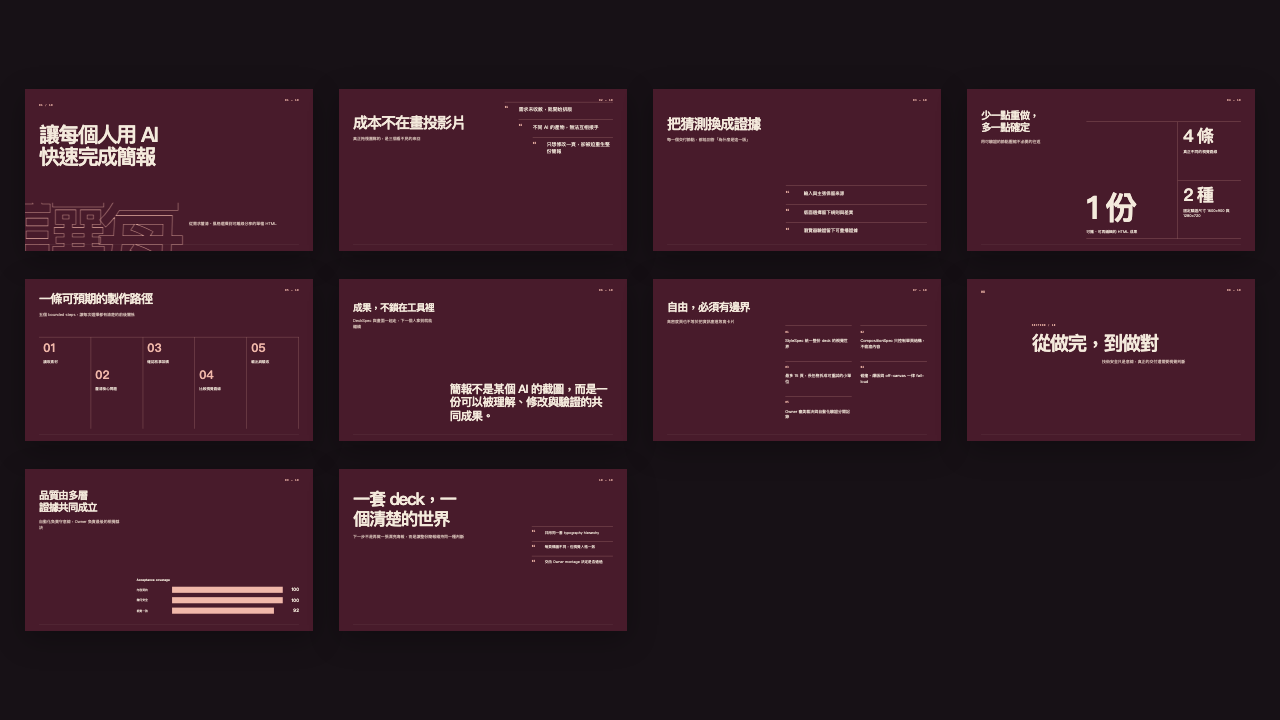
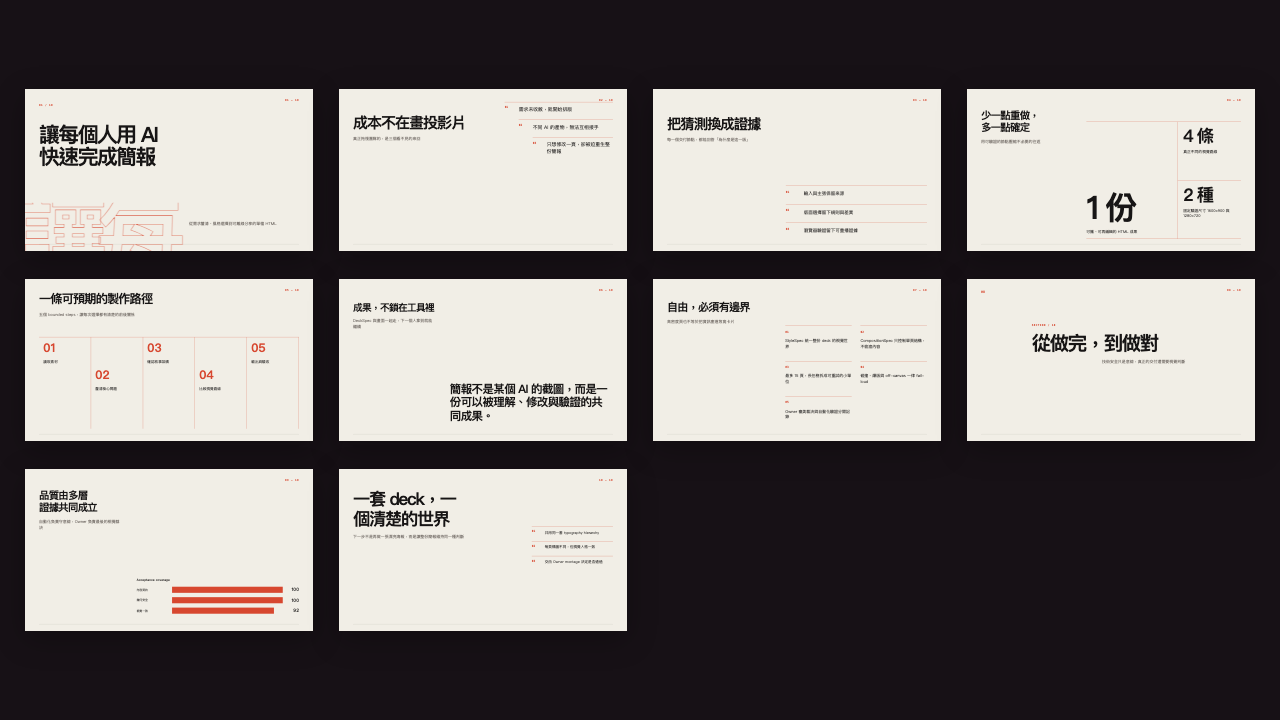
style: brighten typography hero visual world

diff --git a/fixtures/full-deck.html b/fixtures/full-deck.html
@@ -1,5 +1,5 @@
 <!doctype html><html lang="zh-Hant"><head><meta charset="utf-8"><meta name="viewport" content="width=device-width,initial-scale=1"><title>讓每個人用 AI 快速完成簡報</title><style>
-:root{--canvas:#481b2b;--text:#f4eadc;--muted:#d9c4ba;--accent:#f1b8aa;--surface:#713248;--unit:10px;--pad:72px;--radius:0px;--border:1px;--motion:420ms;--ease:cubic-bezier(.16,1,.3,1);--display:'Microsoft JhengHei', 'Microsoft JhengHei UI', 'PingFang TC', sans-serif;--body:'Microsoft JhengHei', 'Microsoft JhengHei UI', 'PingFang TC', sans-serif;--mono:Menlo, monospace}
+:root{--canvas:#f1eee6;--text:#171515;--muted:#68615c;--accent:#d7472f;--surface:#ded8cc;--unit:10px;--pad:72px;--radius:0px;--border:1px;--motion:420ms;--ease:cubic-bezier(.16,1,.3,1);--display:'Microsoft JhengHei', 'Microsoft JhengHei UI', 'PingFang TC', sans-serif;--body:'Microsoft JhengHei', 'Microsoft JhengHei UI', 'PingFang TC', sans-serif;--mono:Menlo, monospace}
 *{box-sizing:border-box}html{background:#101114;scroll-snap-type:y mandatory}body{margin:0;color:var(--text);font-family:'Microsoft JhengHei', 'Microsoft JhengHei UI', 'PingFang TC', sans-serif;background:#101114}.deck{display:grid;gap:32px;justify-content:center}.slide{width:1600px;height:900px;padding:var(--pad);overflow:hidden;background:var(--canvas);border:var(--border) solid var(--muted);scroll-snap-align:start;display:grid;position:relative}.eyebrow{margin:0 0 30px;color:var(--accent);font:800 15px/1 Menlo, monospace;letter-spacing:.14em}.slide h1,.slide h2{margin:0;font-family:'Microsoft JhengHei', 'Microsoft JhengHei UI', 'PingFang TC', sans-serif;letter-spacing:-.045em;text-wrap:balance}.slide h1{font-size:82px;line-height:1.02}.slide h2{font-size:62px;line-height:1.05}.subtitle{max-width:900px;margin:28px 0 0;color:var(--muted);font-size:25px;line-height:1.45}.primitive-cover{grid-template-columns:8fr 4fr;gap:56px}.cover-copy{align-self:center}.cover-signal{padding:44px;background:var(--surface);border-radius:var(--radius);display:flex;flex-direction:column;justify-content:center;gap:28px}.cover-signal b,.chapter-number{margin:0;color:var(--accent);font:900 100px/1 'Microsoft JhengHei', 'Microsoft JhengHei UI', 'PingFang TC', sans-serif}.cover-signal i{height:max(1px,var(--border));background:var(--accent)}.cover-signal span{font-weight:800;font-size:20px;line-height:1.35}.primitive-section-break{grid-template-columns:4fr 8fr;align-items:center}.chapter-number{font-size:180px}.section-copy{padding-left:50px;border-left:max(1px,var(--border)) solid var(--accent)}.primitive-title-points,.primitive-metric-grid,.primitive-process-flow,.primitive-component-focus{grid-template-rows:auto 1fr;gap:44px}.point-list,.proof-list{list-style:none;margin:0;padding:0;display:grid;align-content:center;gap:16px}.point-list li,.proof-list li{display:grid;grid-template-columns:70px 1fr;gap:24px;align-items:start;padding:20px 0;border-top:max(1px,var(--border)) solid var(--muted)}.point-list span,.proof-list span{color:var(--accent);font:800 16px/1 Menlo, monospace}.point-list p,.proof-list p{margin:0;font-size:27px;line-height:1.35}.primitive-split-proof{grid-template-columns:7fr 5fr;gap:56px;align-items:center}.proof-panel{align-self:stretch;padding:44px;background:var(--surface);border-radius:var(--radius);display:grid}.proof-list p{font-size:22px}.metric-cards{display:grid;grid-template-columns:repeat(3,1fr);gap:20px;align-content:stretch}.metric-cards article{padding:32px;background:var(--surface);border-radius:var(--radius);border-top:6px solid var(--accent)}.metric-cards b,.process-steps b{color:var(--accent);font:900 48px/1 'Microsoft JhengHei', 'Microsoft JhengHei UI', 'PingFang TC', sans-serif}.metric-cards p{margin:36px 0 0;font-size:24px;line-height:1.35}.process-steps{display:grid;grid-template-columns:repeat(5,1fr);gap:16px;align-items:center}.process-steps article{min-height:270px;padding:28px;background:var(--surface);border-radius:var(--radius);position:relative}.process-steps article:not(:last-child)::after{content:'→';position:absolute;right:-17px;top:112px;z-index:1;color:var(--accent);font-size:28px}.process-steps p{margin:40px 0 0;font-size:20px;line-height:1.35}.asset{min-height:0;overflow:hidden}.image-asset img{width:100%;height:100%;display:block}.text-asset{margin:0;padding:60px;background:var(--surface);border-left:8px solid var(--accent);font:600 44px/1.35 'Microsoft JhengHei', 'Microsoft JhengHei UI', 'PingFang TC', sans-serif}.citation-asset{align-self:start;font-size:28px}.citation-asset a{color:var(--accent)}.table-asset table{width:100%;border-collapse:collapse;font-size:20px}.table-asset th,.table-asset td{padding:16px;border-bottom:max(1px,var(--border)) solid var(--muted);text-align:left}.table-asset th{color:var(--accent)}.chart-asset{display:grid;gap:26px}.bar-row{display:grid;grid-template-columns:160px 1fr 80px;gap:18px;align-items:center;margin-top:14px}.bar-row i{height:18px;width:var(--bar);background:var(--accent);border-radius:var(--radius)}.bar-row em{font-style:normal;text-align:right}
 .deck[data-visual-world="typography-hero"]{counter-reset:slide}.deck[data-visual-world="typography-hero"] .slide{border:0;padding:72px 78px 68px;background:var(--canvas);isolation:isolate}.deck[data-visual-world="typography-hero"] .slide::after{content:"";position:absolute;left:78px;right:78px;bottom:38px;height:1px;background:color-mix(in srgb,var(--muted) 38%,transparent);z-index:-1}.deck[data-visual-world="typography-hero"] .slide-folio{position:absolute;right:78px;top:54px;margin:0;color:var(--accent);font:700 15px/1 var(--mono);letter-spacing:.14em}.deck[data-visual-world="typography-hero"] .slide h1,.deck[data-visual-world="typography-hero"] .slide h2{font-weight:900;letter-spacing:-.075em}.deck[data-visual-world="typography-hero"] .slide h2{font-size:68px;line-height:1.16}.deck[data-visual-world="typography-hero"] .subtitle{font-size:22px;line-height:1.5}.deck[data-visual-world="typography-hero"] .eyebrow{font-family:var(--mono)}
 .deck[data-visual-world="typography-hero"] .variant-monument{display:block}.deck[data-visual-world="typography-hero"] .variant-monument .cover-copy{position:absolute;left:78px;top:82px;width:1320px;z-index:2}.deck[data-visual-world="typography-hero"] .variant-monument h1{width:1180px;margin-top:92px;font-size:116px;line-height:1.06}.deck[data-visual-world="typography-hero"] .variant-monument .subtitle{position:absolute;right:0;top:648px;width:580px;margin:0;text-align:right}.deck[data-visual-world="typography-hero"] .variant-monument .cover-signal{display:none}.type-monument{position:absolute;inset:0;overflow:hidden;color:transparent;opacity:.56;-webkit-text-stroke:3px var(--accent);z-index:1}.type-monument::before{content:attr(data-glyphs);position:absolute;left:-32px;bottom:-92px;width:1500px;height:360px;overflow:hidden;white-space:nowrap;font:900 500px/.72 var(--display);letter-spacing:-.15em}
@@ -27,4 +27,4 @@ html.motion-ready .motion-root.is-visible .point-list li:nth-child(3),html.motio
 html.motion-ready .motion-root.is-visible .point-list li:nth-child(4),html.motion-ready .motion-root.is-visible .proof-list li:nth-child(4),html.motion-ready .motion-root.is-visible .metric-cards article:nth-child(4),html.motion-ready .motion-root.is-visible .process-steps article:nth-child(4),html.motion-ready .motion-root.is-visible .proof li:nth-child(4),html.motion-ready .motion-root.is-visible .map b:nth-of-type(4){transition-delay:calc(var(--motion-stagger) * 3)}
 html.motion-ready .motion-root.is-visible .point-list li:nth-child(5),html.motion-ready .motion-root.is-visible .proof-list li:nth-child(5),html.motion-ready .motion-root.is-visible .metric-cards article:nth-child(5),html.motion-ready .motion-root.is-visible .process-steps article:nth-child(5){transition-delay:calc(var(--motion-stagger) * 4)}
 @media(prefers-reduced-motion:reduce){html.motion-ready .motion-root *,html.motion-ready .motion-root *::before,html.motion-ready .motion-root *::after{animation:none!important;transition:none!important;opacity:1!important;transform:none!important}}
-.deck{zoom:min(1,calc(100vw / 1600px))}.metric-cards{grid-template-columns:repeat(auto-fit,minmax(260px,1fr))}</style></head><body><main class="deck" data-deck-id="pptskill-typography-world" data-style-id="route-editorial-rail" data-visual-world="typography-hero"><section class="slide primitive-cover motion-root variant-monument" id="opening" data-slide-id="opening" data-primitive="cover"><p class="slide-folio">01 — 10</p><span class="type-monument" data-glyphs="讓每" data-effect-visual-anchor aria-hidden="true"></span><div class="cover-copy"><p class="eyebrow">01 / 10</p><h1 class="" data-edit-target="slides.opening.content.title" data-effect-title>讓每個人用 AI 快速完成簡報</h1><p class="subtitle" data-edit-target="slides.opening.content.subtitle">從需求釐清、風格選擇到可離線分享的單檔 HTML</p></div><aside class="cover-signal"><b>01</b><i></i><span>先問清楚，再開始做</span></aside></section><section class="slide primitive-title-points motion-root variant-editorial-index" id="problem" data-slide-id="problem" data-primitive="title-points"><p class="slide-folio">02 — 10</p><header><h2 class="" data-edit-target="slides.problem.content.title" data-effect-title>成本不在畫投影片</h2><p class="subtitle" data-edit-target="slides.problem.content.subtitle">真正拖慢團隊的，是三個看不見的來回</p></header><ol class="point-list" data-edit-target="slides.problem.content.keyPoints"><li data-point-index="0"><span>01</span><p>需求未收斂，就開始排版</p></li><li data-point-index="1"><span>02</span><p>不同 AI 的產物，無法互相接手</p></li><li data-point-index="2"><span>03</span><p>只想修改一頁，卻被迫重生整份簡報</p></li></ol></section><section class="slide primitive-split-proof motion-root variant-proof-ledger" id="proof" data-slide-id="proof" data-primitive="split-proof"><p class="slide-folio">03 — 10</p><div class="split-copy"><h2 class="" data-edit-target="slides.proof.content.title" data-effect-title>把猜測換成證據</h2><p class="subtitle" data-edit-target="slides.proof.content.subtitle">每一個交付節點，都能回答「為什麼是這一版」</p></div><aside class="proof-panel"><ol class="proof-list" data-edit-target="slides.proof.content.keyPoints"><li data-point-index="0"><span>01</span><p>輸入與主張保留來源</p></li><li data-point-index="1"><span>02</span><p>版面選擇留下規則與差異</p></li><li data-point-index="2"><span>03</span><p>瀏覽器驗證留下可重播證據</p></li></ol></aside></section><section class="slide primitive-metric-grid motion-root variant-metric-contrast" id="metrics" data-slide-id="metrics" data-primitive="metric-grid"><p class="slide-folio">04 — 10</p><header><h2 class="" data-edit-target="slides.metrics.content.title" data-effect-title>少一點重做，多一點確定</h2><p class="subtitle" data-edit-target="slides.metrics.content.subtitle">用可驗證的節點壓縮不必要的往返</p></header><div class="metric-cards" data-edit-target="slides.metrics.content.keyPoints"><article><b>01</b><strong class="metric-value">1 份</strong><p>可攜、可再編輯的 HTML 成果</p></article><article><b>02</b><strong class="metric-value">4 條</strong><p>真正不同的視覺路線</p></article><article><b>03</b><strong class="metric-value">2 種</strong><p>固定驗證尺寸 1600×900 與 1280×720</p></article></div></section><section class="slide primitive-process-flow motion-root variant-vertical-sequence" id="workflow" data-slide-id="workflow" data-primitive="process-flow"><p class="slide-folio">05 — 10</p><header><h2 class="" data-edit-target="slides.workflow.content.title" data-effect-title>一條可預期的製作路徑</h2><p class="subtitle" data-edit-target="slides.workflow.content.subtitle">五個 bounded steps，讓每次選擇都有清楚的前後關係</p></header><div class="process-steps" data-edit-target="slides.workflow.content.keyPoints"><article><b>01</b><p>讀取素材</p></article><article><b>02</b><p>釐清核心問題</p></article><article><b>03</b><p>確認敘事架構</p></article><article><b>04</b><p>比較視覺路線</p></article><article><b>05</b><p>輸出與驗收</p></article></div></section><section class="slide primitive-component-focus motion-root variant-quote-monument" id="portable" data-slide-id="portable" data-primitive="component-focus"><p class="slide-folio">06 — 10</p><header><h2 class="" data-edit-target="slides.portable.content.title" data-effect-title>成果，不鎖在工具裡</h2><p class="subtitle" data-edit-target="slides.portable.content.subtitle">DeckSpec 與畫面一起走，下一個人拿到就能繼續</p></header><blockquote class="asset text-asset" data-edit-target="slides.portable.content.components.portable-quote">簡報不是某個 AI 的截圖，而是一份可以被理解、修改與驗證的共同成果。</blockquote></section><section class="slide primitive-title-points motion-root variant-dense-ledger" id="guardrails" data-slide-id="guardrails" data-primitive="title-points"><p class="slide-folio">07 — 10</p><header><h2 class="" data-edit-target="slides.guardrails.content.title" data-effect-title>自由，必須有邊界</h2><p class="subtitle" data-edit-target="slides.guardrails.content.subtitle">高密度頁也不等於把資訊塞進等寬卡片</p></header><ol class="point-list" data-edit-target="slides.guardrails.content.keyPoints"><li data-point-index="0"><span>01</span><p>StyleSpec 統一整份 deck 的視覺世界</p></li><li data-point-index="1"><span>02</span><p>CompositionSpec 只控制單頁結構，不偷渡內容</p></li><li data-point-index="2"><span>03</span><p>最多 15 頁，長任務拆成可重試的小單位</p></li><li data-point-index="3"><span>04</span><p>碰撞、爆版與 off-canvas 一律 fail-loud</p></li><li data-point-index="4"><span>05</span><p>Owner 審美裁決與自動化驗證分開記錄</p></li></ol></section><section class="slide primitive-section-break motion-root variant-quiet-transition" id="transition" data-slide-id="transition" data-primitive="section-break"><p class="slide-folio">08 — 10</p><p class="chapter-number">08</p><div class="section-copy"><p class="eyebrow">SECTION / 10</p><h2 class="" data-edit-target="slides.transition.content.title" data-effect-title>從做完，到做對</h2><p class="subtitle" data-edit-target="slides.transition.content.subtitle">技術安全只是底線，真正的交付還需要視覺判斷</p></div></section><section class="slide primitive-component-focus motion-root variant-evidence-axis" id="evidence" data-slide-id="evidence" data-primitive="component-focus"><p class="slide-folio">09 — 10</p><header><h2 class="" data-edit-target="slides.evidence.content.title" data-effect-title>品質由多層證據共同成立</h2><p class="subtitle" data-edit-target="slides.evidence.content.subtitle">自動化負責守底線，Owner 負責最後的視覺裁決</p></header><div class="asset chart-asset" data-edit-target="slides.evidence.content.components.quality-bars"><section><b>Acceptance coverage</b><div class="bar-row"><span>內容契約</span><i style="--bar:100%"></i><em>100</em></div><div class="bar-row"><span>幾何安全</span><i style="--bar:100%"></i><em>100</em></div><div class="bar-row"><span>視覺一致</span><i style="--bar:92%"></i><em>92</em></div></section></div></section><section class="slide primitive-split-proof motion-root variant-closing-manifesto" id="decision" data-slide-id="decision" data-primitive="split-proof"><p class="slide-folio">10 — 10</p><div class="split-copy"><h2 class="" data-edit-target="slides.decision.content.title" data-effect-title>一套 deck，一個清楚的世界</h2><p class="subtitle" data-edit-target="slides.decision.content.subtitle">下一步不是再做一張漂亮海報，而是讓整份簡報維持同一種判斷</p></div><aside class="proof-panel"><ol class="proof-list" data-edit-target="slides.decision.content.keyPoints"><li data-point-index="0"><span>01</span><p>共用同一套 typography hierarchy</p></li><li data-point-index="1"><span>02</span><p>每頁構圖不同，但視覺人格一致</p></li><li data-point-index="2"><span>03</span><p>交由 Owner montage 決定是否通過</p></li></ol></aside></section></main><script>(()=>{const reduce=matchMedia('(prefers-reduced-motion: reduce)').matches;document.documentElement.classList.add('motion-ready');const roots=[...document.querySelectorAll('.motion-root')];if(reduce||!('IntersectionObserver'in window)){roots.forEach((root)=>root.classList.add('is-visible'));return;}const observer=new IntersectionObserver((entries)=>{for(const entry of entries){if(entry.isIntersecting)entry.target.classList.add('is-visible');}},{threshold:.32});roots.forEach((root)=>observer.observe(root));})();</script><script type="application/json" id="deck-spec">{"schemaVersion":"1.0","deckId":"pptskill-typography-world","title":"讓每個人用 AI 快速完成簡報","language":"zh-Hant","style":{"id":"route-editorial-rail","name":"Editorial Monument","layout":{"primaryMove":"editorial-rail","compositionLanguage":"narrative"},"density":"low","typography":{"display":"'Microsoft JhengHei', 'Microsoft JhengHei UI', 'PingFang TC', sans-serif","body":"'Microsoft JhengHei', 'Microsoft JhengHei UI', 'PingFang TC', sans-serif","mono":"Menlo, monospace"},"palette":{"canvas":"#481b2b","text":"#f4eadc","muted":"#d9c4ba","accent":"#f1b8aa","surface":"#713248"},"spacing":{"unit":10,"slidePadding":72},"geometry":{"radius":0,"borderWidth":1},"motion":{"personality":"premium","durationMs":420,"easing":"cubic-bezier(.16,1,.3,1)","reducedMotion":true},"assetTreatment":"editorial chapter crops and quiet captions"},"slides":[{"id":"opening","content":{"title":"讓每個人用 AI 快速完成簡報","subtitle":"從需求釐清、風格選擇到可離線分享的單檔 HTML","keyPoints":["先問清楚，再開始做","同內容比較四種風格","交付一個可轉傳檔案"],"components":[]},"composition":{"primitive":"cover","variant":"monument","slots":{"title":"content.title","subtitle":"content.subtitle"}}},{"id":"problem","content":{"title":"成本不在畫投影片","subtitle":"真正拖慢團隊的，是三個看不見的來回","keyPoints":["需求未收斂，就開始排版","不同 AI 的產物，無法互相接手","只想修改一頁，卻被迫重生整份簡報"],"components":[]},"composition":{"primitive":"title-points","variant":"editorial-index","slots":{"title":"content.title","subtitle":"content.subtitle","points":"content.keyPoints"}}},{"id":"proof","content":{"title":"把猜測換成證據","subtitle":"每一個交付節點，都能回答「為什麼是這一版」","keyPoints":["輸入與主張保留來源","版面選擇留下規則與差異","瀏覽器驗證留下可重播證據"],"components":[]},"composition":{"primitive":"split-proof","variant":"proof-ledger","slots":{"title":"content.title","subtitle":"content.subtitle","points":"content.keyPoints"}}},{"id":"metrics","content":{"title":"少一點重做，多一點確定","subtitle":"用可驗證的節點壓縮不必要的往返","keyPoints":["1 份｜可攜、可再編輯的 HTML 成果","4 條｜真正不同的視覺路線","2 種｜固定驗證尺寸 1600×900 與 1280×720"],"components":[]},"composition":{"primitive":"metric-grid","variant":"metric-contrast","slots":{"title":"content.title","subtitle":"content.subtitle","points":"content.keyPoints"}}},{"id":"workflow","content":{"title":"一條可預期的製作路徑","subtitle":"五個 bounded steps，讓每次選擇都有清楚的前後關係","keyPoints":["讀取素材","釐清核心問題","確認敘事架構","比較視覺路線","輸出與驗收"],"components":[]},"composition":{"primitive":"process-flow","variant":"vertical-sequence","slots":{"title":"content.title","subtitle":"content.subtitle","points":"content.keyPoints"}}},{"id":"portable","content":{"title":"成果，不鎖在工具裡","subtitle":"DeckSpec 與畫面一起走，下一個人拿到就能繼續","keyPoints":["離線可開啟","自由轉傳","相容 AI 可接手"],"components":[{"id":"portable-quote","type":"text","text":"簡報不是某個 AI 的截圖，而是一份可以被理解、修改與驗證的共同成果。"}]},"composition":{"primitive":"component-focus","variant":"quote-monument","slots":{"title":"content.title","subtitle":"content.subtitle","component":"content.components.portable-quote"}}},{"id":"guardrails","content":{"title":"自由，必須有邊界","subtitle":"高密度頁也不等於把資訊塞進等寬卡片","keyPoints":["StyleSpec 統一整份 deck 的視覺世界","CompositionSpec 只控制單頁結構，不偷渡內容","最多 15 頁，長任務拆成可重試的小單位","碰撞、爆版與 off-canvas 一律 fail-loud","Owner 審美裁決與自動化驗證分開記錄"],"components":[]},"composition":{"primitive":"title-points","variant":"dense-ledger","slots":{"title":"content.title","subtitle":"content.subtitle","points":"content.keyPoints"}}},{"id":"transition","content":{"title":"從做完，到做對","subtitle":"技術安全只是底線，真正的交付還需要視覺判斷","keyPoints":["靜態構圖先成立","動畫不能救醜版面","Golden 是證據，不是模板"],"components":[]},"composition":{"primitive":"section-break","variant":"quiet-transition","slots":{"title":"content.title","subtitle":"content.subtitle"}}},{"id":"evidence","content":{"title":"品質由多層證據共同成立","subtitle":"自動化負責守底線，Owner 負責最後的視覺裁決","keyPoints":["契約驗證","雙尺寸 geometry","Owner visual gate"],"components":[{"id":"quality-bars","type":"chart","chartType":"bar","labels":["內容契約","幾何安全","視覺一致"],"series":[{"name":"Acceptance coverage","values":[100,100,92]}]}]},"composition":{"primitive":"component-focus","variant":"evidence-axis","slots":{"title":"content.title","subtitle":"content.subtitle","component":"content.components.quality-bars"}}},{"id":"decision","content":{"title":"一套 deck，一個清楚的世界","subtitle":"下一步不是再做一張漂亮海報，而是讓整份簡報維持同一種判斷","keyPoints":["共用同一套 typography hierarchy","每頁構圖不同，但視覺人格一致","交由 Owner montage 決定是否通過"],"components":[]},"composition":{"primitive":"split-proof","variant":"closing-manifesto","slots":{"title":"content.title","subtitle":"content.subtitle","points":"content.keyPoints"}}}]}</script></body></html>
+.deck{zoom:min(1,calc(100vw / 1600px))}.metric-cards{grid-template-columns:repeat(auto-fit,minmax(260px,1fr))}</style></head><body><main class="deck" data-deck-id="pptskill-typography-world" data-style-id="route-editorial-rail" data-visual-world="typography-hero"><section class="slide primitive-cover motion-root variant-monument" id="opening" data-slide-id="opening" data-primitive="cover"><p class="slide-folio">01 — 10</p><span class="type-monument" data-glyphs="讓每" data-effect-visual-anchor aria-hidden="true"></span><div class="cover-copy"><p class="eyebrow">01 / 10</p><h1 class="" data-edit-target="slides.opening.content.title" data-effect-title>讓每個人用 AI 快速完成簡報</h1><p class="subtitle" data-edit-target="slides.opening.content.subtitle">從需求釐清、風格選擇到可離線分享的單檔 HTML</p></div><aside class="cover-signal"><b>01</b><i></i><span>先問清楚，再開始做</span></aside></section><section class="slide primitive-title-points motion-root variant-editorial-index" id="problem" data-slide-id="problem" data-primitive="title-points"><p class="slide-folio">02 — 10</p><header><h2 class="" data-edit-target="slides.problem.content.title" data-effect-title>成本不在畫投影片</h2><p class="subtitle" data-edit-target="slides.problem.content.subtitle">真正拖慢團隊的，是三個看不見的來回</p></header><ol class="point-list" data-edit-target="slides.problem.content.keyPoints"><li data-point-index="0"><span>01</span><p>需求未收斂，就開始排版</p></li><li data-point-index="1"><span>02</span><p>不同 AI 的產物，無法互相接手</p></li><li data-point-index="2"><span>03</span><p>只想修改一頁，卻被迫重生整份簡報</p></li></ol></section><section class="slide primitive-split-proof motion-root variant-proof-ledger" id="proof" data-slide-id="proof" data-primitive="split-proof"><p class="slide-folio">03 — 10</p><div class="split-copy"><h2 class="" data-edit-target="slides.proof.content.title" data-effect-title>把猜測換成證據</h2><p class="subtitle" data-edit-target="slides.proof.content.subtitle">每一個交付節點，都能回答「為什麼是這一版」</p></div><aside class="proof-panel"><ol class="proof-list" data-edit-target="slides.proof.content.keyPoints"><li data-point-index="0"><span>01</span><p>輸入與主張保留來源</p></li><li data-point-index="1"><span>02</span><p>版面選擇留下規則與差異</p></li><li data-point-index="2"><span>03</span><p>瀏覽器驗證留下可重播證據</p></li></ol></aside></section><section class="slide primitive-metric-grid motion-root variant-metric-contrast" id="metrics" data-slide-id="metrics" data-primitive="metric-grid"><p class="slide-folio">04 — 10</p><header><h2 class="" data-edit-target="slides.metrics.content.title" data-effect-title>少一點重做，多一點確定</h2><p class="subtitle" data-edit-target="slides.metrics.content.subtitle">用可驗證的節點壓縮不必要的往返</p></header><div class="metric-cards" data-edit-target="slides.metrics.content.keyPoints"><article><b>01</b><strong class="metric-value">1 份</strong><p>可攜、可再編輯的 HTML 成果</p></article><article><b>02</b><strong class="metric-value">4 條</strong><p>真正不同的視覺路線</p></article><article><b>03</b><strong class="metric-value">2 種</strong><p>固定驗證尺寸 1600×900 與 1280×720</p></article></div></section><section class="slide primitive-process-flow motion-root variant-vertical-sequence" id="workflow" data-slide-id="workflow" data-primitive="process-flow"><p class="slide-folio">05 — 10</p><header><h2 class="" data-edit-target="slides.workflow.content.title" data-effect-title>一條可預期的製作路徑</h2><p class="subtitle" data-edit-target="slides.workflow.content.subtitle">五個 bounded steps，讓每次選擇都有清楚的前後關係</p></header><div class="process-steps" data-edit-target="slides.workflow.content.keyPoints"><article><b>01</b><p>讀取素材</p></article><article><b>02</b><p>釐清核心問題</p></article><article><b>03</b><p>確認敘事架構</p></article><article><b>04</b><p>比較視覺路線</p></article><article><b>05</b><p>輸出與驗收</p></article></div></section><section class="slide primitive-component-focus motion-root variant-quote-monument" id="portable" data-slide-id="portable" data-primitive="component-focus"><p class="slide-folio">06 — 10</p><header><h2 class="" data-edit-target="slides.portable.content.title" data-effect-title>成果，不鎖在工具裡</h2><p class="subtitle" data-edit-target="slides.portable.content.subtitle">DeckSpec 與畫面一起走，下一個人拿到就能繼續</p></header><blockquote class="asset text-asset" data-edit-target="slides.portable.content.components.portable-quote">簡報不是某個 AI 的截圖，而是一份可以被理解、修改與驗證的共同成果。</blockquote></section><section class="slide primitive-title-points motion-root variant-dense-ledger" id="guardrails" data-slide-id="guardrails" data-primitive="title-points"><p class="slide-folio">07 — 10</p><header><h2 class="" data-edit-target="slides.guardrails.content.title" data-effect-title>自由，必須有邊界</h2><p class="subtitle" data-edit-target="slides.guardrails.content.subtitle">高密度頁也不等於把資訊塞進等寬卡片</p></header><ol class="point-list" data-edit-target="slides.guardrails.content.keyPoints"><li data-point-index="0"><span>01</span><p>StyleSpec 統一整份 deck 的視覺世界</p></li><li data-point-index="1"><span>02</span><p>CompositionSpec 只控制單頁結構，不偷渡內容</p></li><li data-point-index="2"><span>03</span><p>最多 15 頁，長任務拆成可重試的小單位</p></li><li data-point-index="3"><span>04</span><p>碰撞、爆版與 off-canvas 一律 fail-loud</p></li><li data-point-index="4"><span>05</span><p>Owner 審美裁決與自動化驗證分開記錄</p></li></ol></section><section class="slide primitive-section-break motion-root variant-quiet-transition" id="transition" data-slide-id="transition" data-primitive="section-break"><p class="slide-folio">08 — 10</p><p class="chapter-number">08</p><div class="section-copy"><p class="eyebrow">SECTION / 10</p><h2 class="" data-edit-target="slides.transition.content.title" data-effect-title>從做完，到做對</h2><p class="subtitle" data-edit-target="slides.transition.content.subtitle">技術安全只是底線，真正的交付還需要視覺判斷</p></div></section><section class="slide primitive-component-focus motion-root variant-evidence-axis" id="evidence" data-slide-id="evidence" data-primitive="component-focus"><p class="slide-folio">09 — 10</p><header><h2 class="" data-edit-target="slides.evidence.content.title" data-effect-title>品質由多層證據共同成立</h2><p class="subtitle" data-edit-target="slides.evidence.content.subtitle">自動化負責守底線，Owner 負責最後的視覺裁決</p></header><div class="asset chart-asset" data-edit-target="slides.evidence.content.components.quality-bars"><section><b>Acceptance coverage</b><div class="bar-row"><span>內容契約</span><i style="--bar:100%"></i><em>100</em></div><div class="bar-row"><span>幾何安全</span><i style="--bar:100%"></i><em>100</em></div><div class="bar-row"><span>視覺一致</span><i style="--bar:92%"></i><em>92</em></div></section></div></section><section class="slide primitive-split-proof motion-root variant-closing-manifesto" id="decision" data-slide-id="decision" data-primitive="split-proof"><p class="slide-folio">10 — 10</p><div class="split-copy"><h2 class="" data-edit-target="slides.decision.content.title" data-effect-title>一套 deck，一個清楚的世界</h2><p class="subtitle" data-edit-target="slides.decision.content.subtitle">下一步不是再做一張漂亮海報，而是讓整份簡報維持同一種判斷</p></div><aside class="proof-panel"><ol class="proof-list" data-edit-target="slides.decision.content.keyPoints"><li data-point-index="0"><span>01</span><p>共用同一套 typography hierarchy</p></li><li data-point-index="1"><span>02</span><p>每頁構圖不同，但視覺人格一致</p></li><li data-point-index="2"><span>03</span><p>交由 Owner montage 決定是否通過</p></li></ol></aside></section></main><script>(()=>{const reduce=matchMedia('(prefers-reduced-motion: reduce)').matches;document.documentElement.classList.add('motion-ready');const roots=[...document.querySelectorAll('.motion-root')];if(reduce||!('IntersectionObserver'in window)){roots.forEach((root)=>root.classList.add('is-visible'));return;}const observer=new IntersectionObserver((entries)=>{for(const entry of entries){if(entry.isIntersecting)entry.target.classList.add('is-visible');}},{threshold:.32});roots.forEach((root)=>observer.observe(root));})();</script><script type="application/json" id="deck-spec">{"schemaVersion":"1.0","deckId":"pptskill-typography-world","title":"讓每個人用 AI 快速完成簡報","language":"zh-Hant","style":{"id":"route-editorial-rail","name":"Editorial Monument","layout":{"primaryMove":"editorial-rail","compositionLanguage":"narrative"},"density":"low","typography":{"display":"'Microsoft JhengHei', 'Microsoft JhengHei UI', 'PingFang TC', sans-serif","body":"'Microsoft JhengHei', 'Microsoft JhengHei UI', 'PingFang TC', sans-serif","mono":"Menlo, monospace"},"palette":{"canvas":"#f1eee6","text":"#171515","muted":"#68615c","accent":"#d7472f","surface":"#ded8cc"},"spacing":{"unit":10,"slidePadding":72},"geometry":{"radius":0,"borderWidth":1},"motion":{"personality":"premium","durationMs":420,"easing":"cubic-bezier(.16,1,.3,1)","reducedMotion":true},"assetTreatment":"editorial chapter crops and quiet captions"},"slides":[{"id":"opening","content":{"title":"讓每個人用 AI 快速完成簡報","subtitle":"從需求釐清、風格選擇到可離線分享的單檔 HTML","keyPoints":["先問清楚，再開始做","同內容比較四種風格","交付一個可轉傳檔案"],"components":[]},"composition":{"primitive":"cover","variant":"monument","slots":{"title":"content.title","subtitle":"content.subtitle"}}},{"id":"problem","content":{"title":"成本不在畫投影片","subtitle":"真正拖慢團隊的，是三個看不見的來回","keyPoints":["需求未收斂，就開始排版","不同 AI 的產物，無法互相接手","只想修改一頁，卻被迫重生整份簡報"],"components":[]},"composition":{"primitive":"title-points","variant":"editorial-index","slots":{"title":"content.title","subtitle":"content.subtitle","points":"content.keyPoints"}}},{"id":"proof","content":{"title":"把猜測換成證據","subtitle":"每一個交付節點，都能回答「為什麼是這一版」","keyPoints":["輸入與主張保留來源","版面選擇留下規則與差異","瀏覽器驗證留下可重播證據"],"components":[]},"composition":{"primitive":"split-proof","variant":"proof-ledger","slots":{"title":"content.title","subtitle":"content.subtitle","points":"content.keyPoints"}}},{"id":"metrics","content":{"title":"少一點重做，多一點確定","subtitle":"用可驗證的節點壓縮不必要的往返","keyPoints":["1 份｜可攜、可再編輯的 HTML 成果","4 條｜真正不同的視覺路線","2 種｜固定驗證尺寸 1600×900 與 1280×720"],"components":[]},"composition":{"primitive":"metric-grid","variant":"metric-contrast","slots":{"title":"content.title","subtitle":"content.subtitle","points":"content.keyPoints"}}},{"id":"workflow","content":{"title":"一條可預期的製作路徑","subtitle":"五個 bounded steps，讓每次選擇都有清楚的前後關係","keyPoints":["讀取素材","釐清核心問題","確認敘事架構","比較視覺路線","輸出與驗收"],"components":[]},"composition":{"primitive":"process-flow","variant":"vertical-sequence","slots":{"title":"content.title","subtitle":"content.subtitle","points":"content.keyPoints"}}},{"id":"portable","content":{"title":"成果，不鎖在工具裡","subtitle":"DeckSpec 與畫面一起走，下一個人拿到就能繼續","keyPoints":["離線可開啟","自由轉傳","相容 AI 可接手"],"components":[{"id":"portable-quote","type":"text","text":"簡報不是某個 AI 的截圖，而是一份可以被理解、修改與驗證的共同成果。"}]},"composition":{"primitive":"component-focus","variant":"quote-monument","slots":{"title":"content.title","subtitle":"content.subtitle","component":"content.components.portable-quote"}}},{"id":"guardrails","content":{"title":"自由，必須有邊界","subtitle":"高密度頁也不等於把資訊塞進等寬卡片","keyPoints":["StyleSpec 統一整份 deck 的視覺世界","CompositionSpec 只控制單頁結構，不偷渡內容","最多 15 頁，長任務拆成可重試的小單位","碰撞、爆版與 off-canvas 一律 fail-loud","Owner 審美裁決與自動化驗證分開記錄"],"components":[]},"composition":{"primitive":"title-points","variant":"dense-ledger","slots":{"title":"content.title","subtitle":"content.subtitle","points":"content.keyPoints"}}},{"id":"transition","content":{"title":"從做完，到做對","subtitle":"技術安全只是底線，真正的交付還需要視覺判斷","keyPoints":["靜態構圖先成立","動畫不能救醜版面","Golden 是證據，不是模板"],"components":[]},"composition":{"primitive":"section-break","variant":"quiet-transition","slots":{"title":"content.title","subtitle":"content.subtitle"}}},{"id":"evidence","content":{"title":"品質由多層證據共同成立","subtitle":"自動化負責守底線，Owner 負責最後的視覺裁決","keyPoints":["契約驗證","雙尺寸 geometry","Owner visual gate"],"components":[{"id":"quality-bars","type":"chart","chartType":"bar","labels":["內容契約","幾何安全","視覺一致"],"series":[{"name":"Acceptance coverage","values":[100,100,92]}]}]},"composition":{"primitive":"component-focus","variant":"evidence-axis","slots":{"title":"content.title","subtitle":"content.subtitle","component":"content.components.quality-bars"}}},{"id":"decision","content":{"title":"一套 deck，一個清楚的世界","subtitle":"下一步不是再做一張漂亮海報，而是讓整份簡報維持同一種判斷","keyPoints":["共用同一套 typography hierarchy","每頁構圖不同，但視覺人格一致","交由 Owner montage 決定是否通過"],"components":[]},"composition":{"primitive":"split-proof","variant":"closing-manifesto","slots":{"title":"content.title","subtitle":"content.subtitle","points":"content.keyPoints"}}}]}</script></body></html>

diff --git a/design/visual-route-contract.md b/design/visual-route-contract.md
@@ -5,7 +5,7 @@
 - `change_mode`: new_surface；沿用已核准的 Typography Hero 世界，不建立新 Style。
 - `surface_mode`: experience。
 - `THESIS`: 大字不是封面特效，而是整份 deck 的資訊結構；拒絕把每種內容自動塞回等寬卡片。
-- `OWN_WORLD`: 深酒紅 canvas、暖白正文、淡粉單一訊號色、Microsoft JhengHei fallback chain、細線與 edge-cropped type mass；無照片。
+- `OWN_WORLD`: 暖白紙張 canvas、近黑正文、朱紅單一訊號色、Microsoft JhengHei fallback chain、細線與 edge-cropped type mass；無照片。
 - `STORY`: 從成本、證據、流程、可攜性、邊界到決策，10 頁形成一條可驗證的產品敘事。
 - `FIRST_VIEWPORT`: 以 Q2 Typography Hero 的滿版字形裁切與不對稱 copy placement 作封面，不回到 8:4 panel skeleton。
 - `FORM`: 七種指定頁型共用 typography hierarchy、folio、規則線與 palette-area ratio；透過錯位比例、留白與文字尺度產生頁面差異。

diff --git a/evidence/p0-vq3/s1/typography-world-receipt.md b/evidence/p0-vq3/s1/typography-world-receipt.md
@@ -8,7 +8,7 @@
 ## Visual Route
 
 - `change_mode`: new_surface；繼承 Q2 已核准的 Typography Hero。
-- `visual_world`: 深酒紅 canvas、暖白文字、淡粉訊號色、Microsoft JhengHei fallback chain、細線、folio 與 edge-cropped typography。
+- `visual_world`: 暖白紙張 canvas、近黑文字、朱紅訊號色、Microsoft JhengHei fallback chain、細線、folio 與 edge-cropped typography。
 - `primary_layout_move`: 大字尺度與不對稱文字區域建立視覺節奏；頁面不依賴照片、等寬卡片或固定 50/50 split。
 - `anti_patterns`: 三等分 KPI cards、五個箭頭 boxes、glow、陰影、圓角與每頁重複骨架。
 
